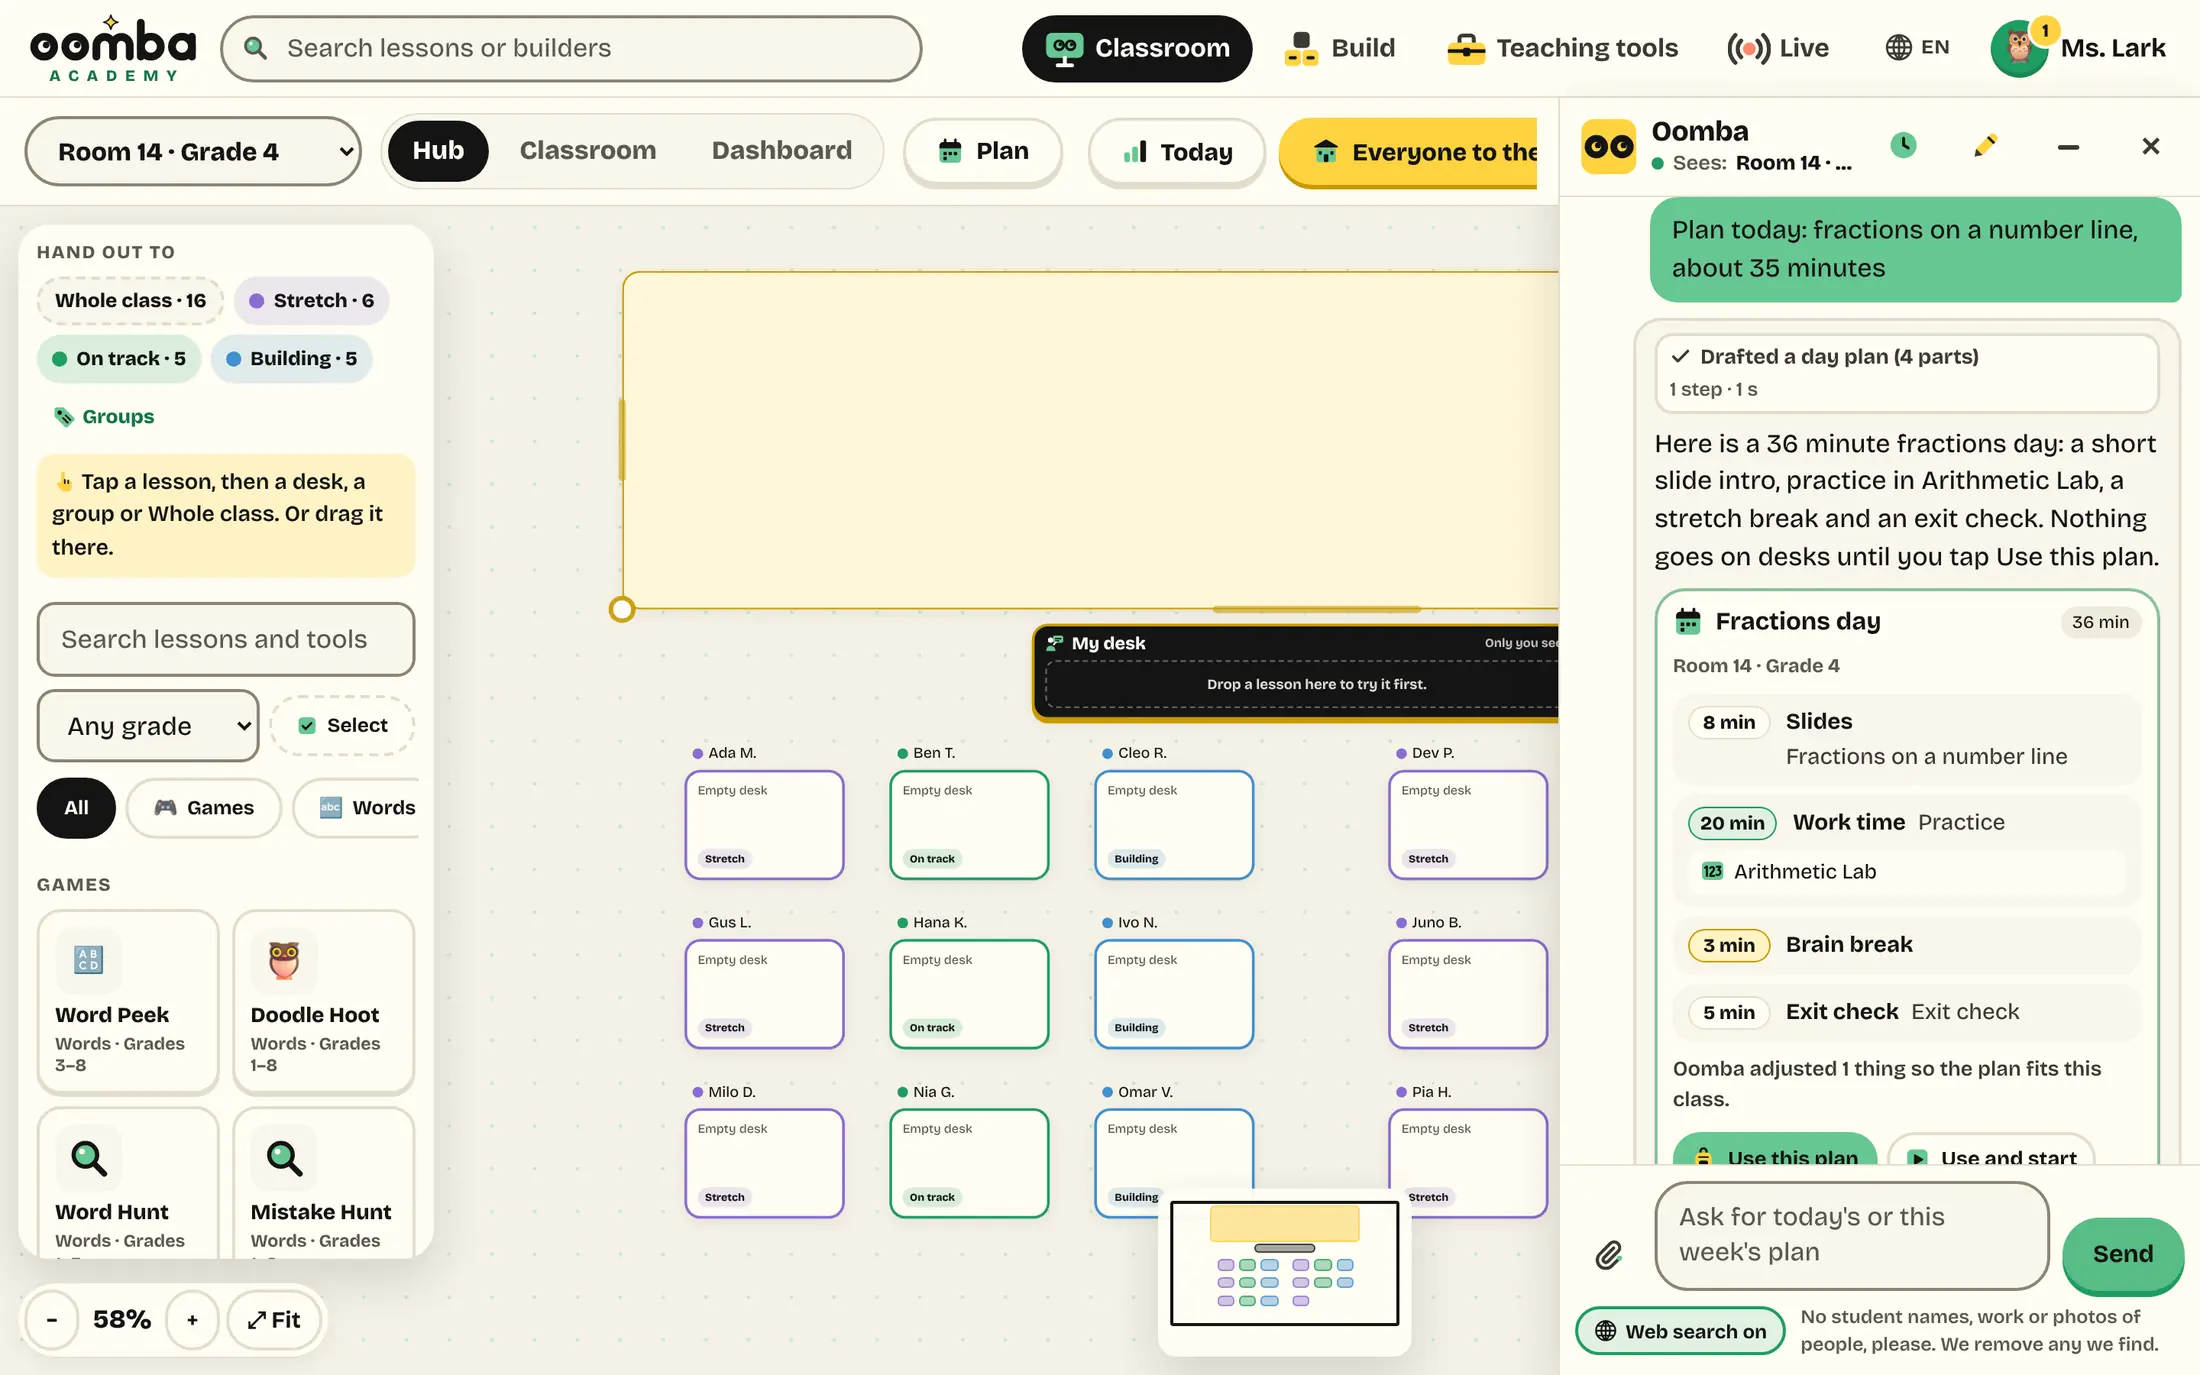
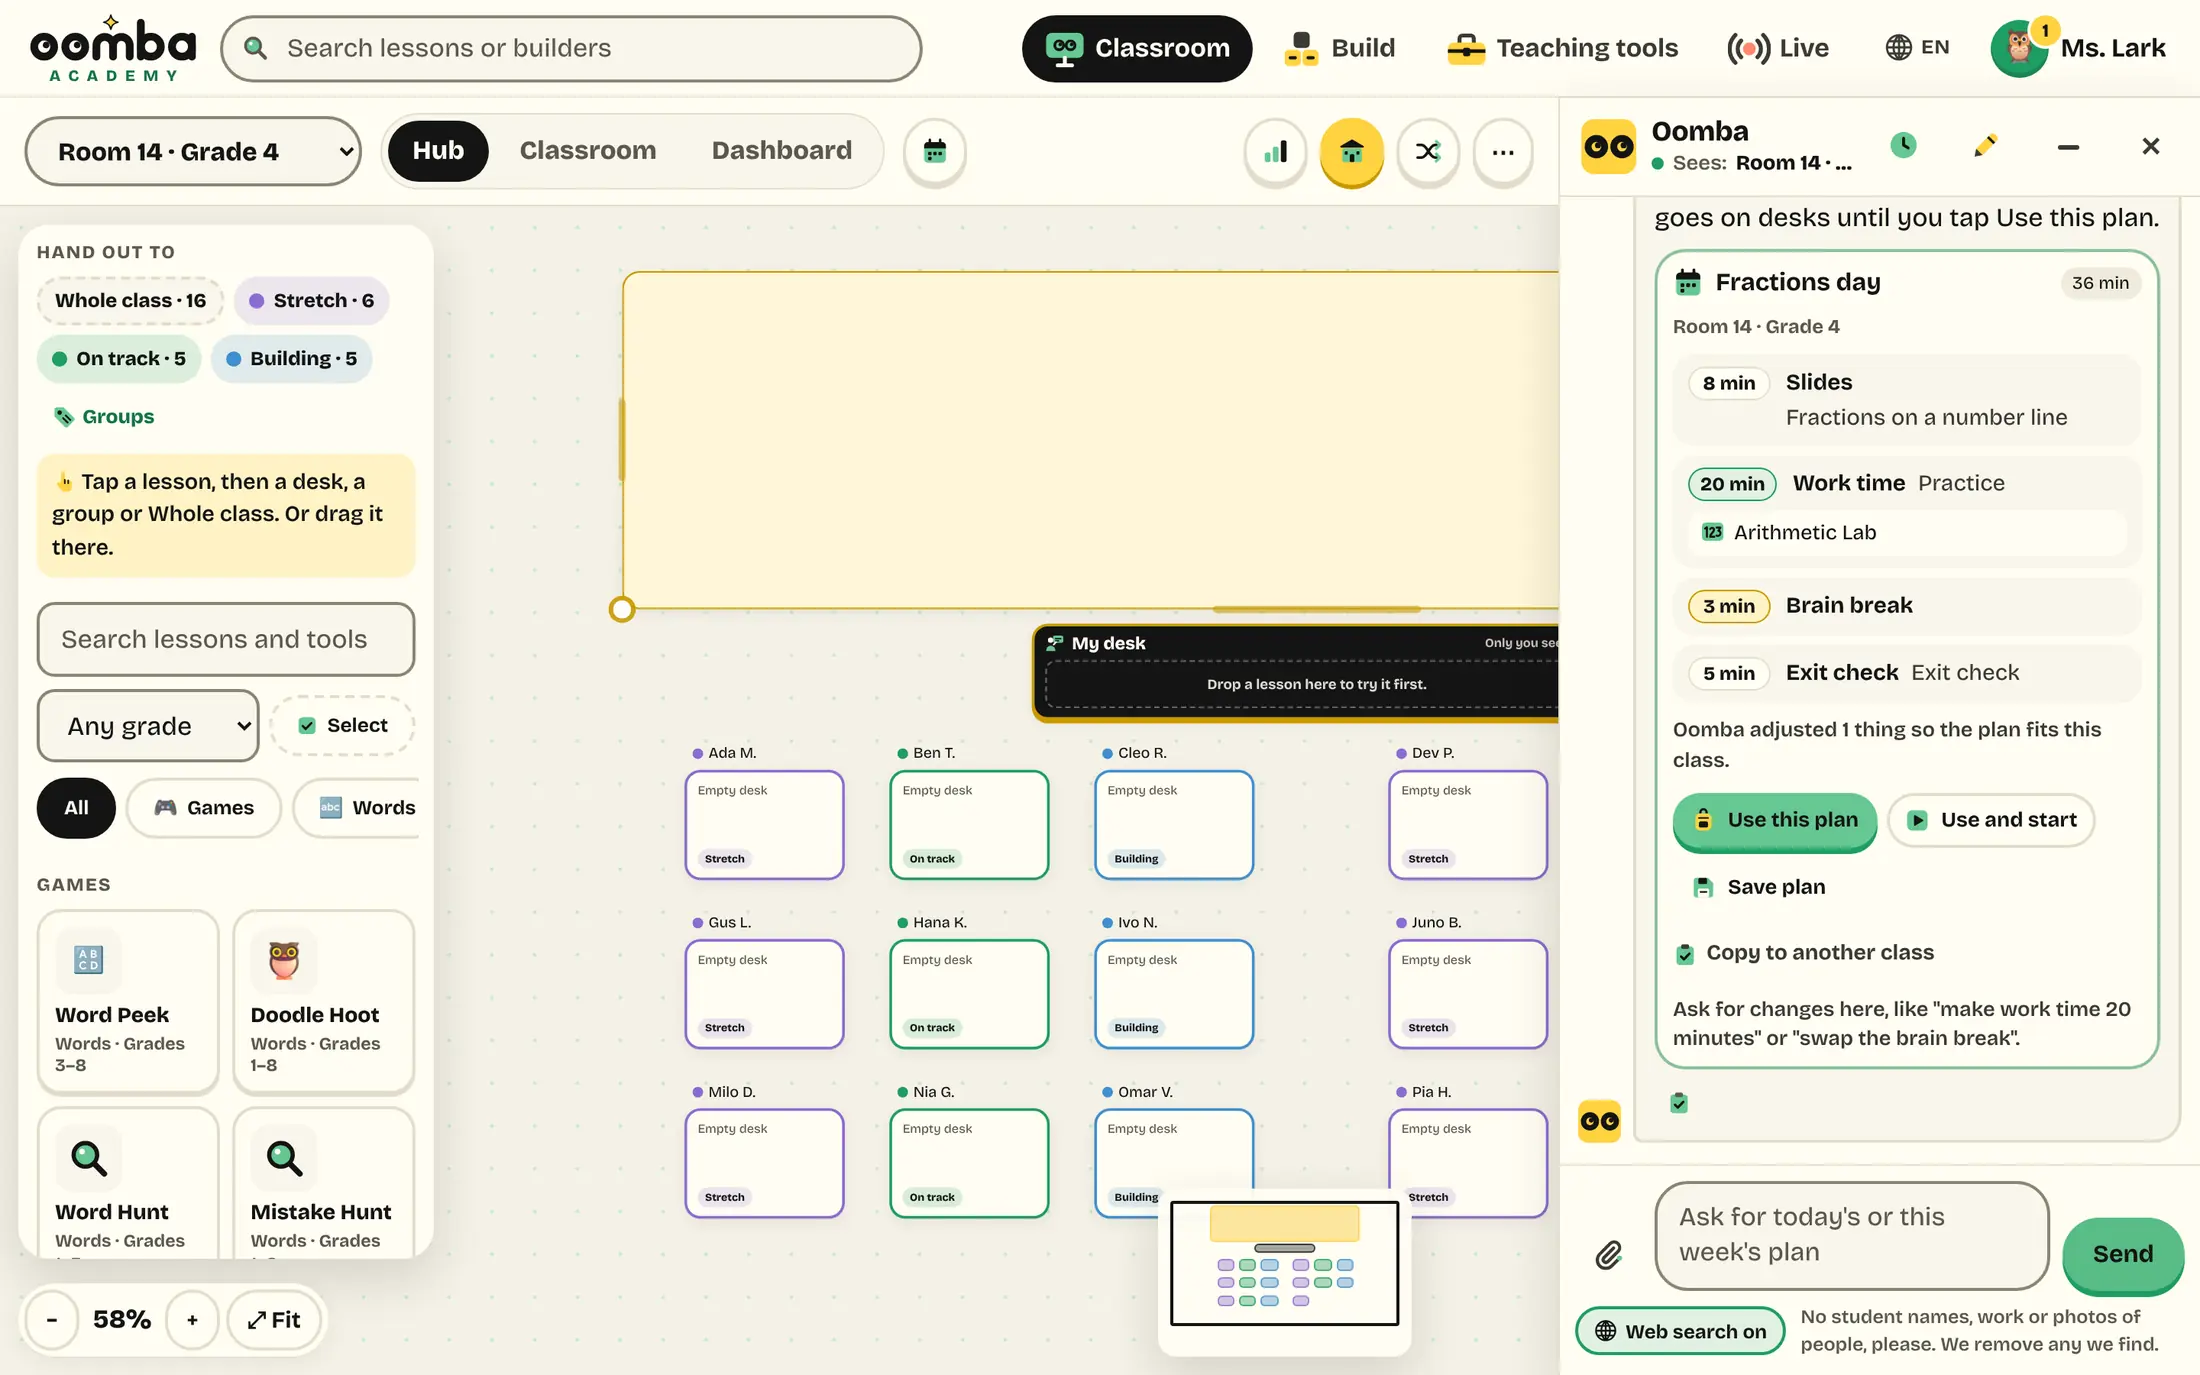
Homepage tour step 5: Use this plan shown whole; every ring clear of the window's edge
The step 5 screenshot (scripts/landing-shots.mjs) is captured with the Oomba chat scrolled to the plan card's end, so
Use this plan and Use and start show whole, with room under them and nothing over them (chat-plan is captured first, as
before, and is unchanged). Step 5's camera and ring follow the new picture; step 4's camera sits at the picture's right
edge so its ring has room. Every step's ring is now at least 17px from the window's edge at 390x844 and 1440, and the
browser test asserts at least 8px on all six steps at both sizes.

Claude-Session: https://claude.ai/code/session_013fJHoNyx7YpmiySDgm2YvR

Changed region(s): [[0.7109, 0.1222, 1.0, 0.8553], [0.4945, 0.0611, 0.7109, 0.1527], [0.4018, 0.0916, 0.4636, 0.1527]]

diff --git a/tests/unit/landing-tour-browser.test.js b/tests/unit/landing-tour-browser.test.js
@@ -48,6 +48,8 @@ const view = page => page.evaluate(() => {
   return { stage: r(st.querySelector('.lp-tstage')), ring: r(st.querySelector('.lp-ring')), tip: r(st.querySelector('.lp-tip')), scale: m.a, tx: m.e, ty: m.f };
 });
 const inside = (a, b) => a.x >= b.x - 1 && a.y >= b.y - 1 && a.x + a.w <= b.x + b.w + 1 && a.y + a.h <= b.y + b.h + 1;
+/** The ring's smallest distance to the window's edge (left, top, right, bottom). */
+const margin = (a, b) => Math.min(a.x - b.x, a.y - b.y, b.x + b.w - (a.x + a.w), b.y + b.h - (a.y + a.h));
 
 test('the tour: Next and Back, the stepper, the keys, focus, progress and the live region (laptop)', { skip }, async () => {
   const { ctx, page, errors } = await open({ viewport: { width: 1440, height: 900 }, reducedMotion: 'reduce' });
@@ -138,6 +140,22 @@ for (const colorScheme of ['dark', 'light']) {
     }, dir);
     await swipe('left'); assert.deepEqual((await state(page)).shown, [3]);
     await swipe('right'); assert.deepEqual((await state(page)).shown, [2]);
+    assert.deepEqual(errors, []);
+    await ctx.close();
+  });
+}
+
+for (const viewport of [{ width: 390, height: 844 }, { width: 1440, height: 900 }]) {
+  test(`every step's ring is whole in its window, at least 8px from each edge (${viewport.width}x${viewport.height})`, { skip }, async () => {
+    const { ctx, page, errors } = await open({ viewport, reducedMotion: 'reduce', ...(viewport.width < 500 ? { isMobile: true, hasTouch: true } : {}) });
+    await page.locator('#tour').scrollIntoViewIfNeeded();
+    for (let i = 0; i < 6; i++) {
+      const v = await view(page);
+      const m = margin(v.ring, v.stage);
+      assert.ok(m >= 8, `step ${i + 1}: the ring is ${m.toFixed(1)}px from the window's edge (${JSON.stringify({ ring: v.ring, stage: v.stage })})`);
+      assert.ok(v.ring.w > 20 && v.ring.h > 20, `step ${i + 1}: the ring is big enough to see`);
+      await page.locator('.lp-tstep.on [data-next]').click();
+    }
     assert.deepEqual(errors, []);
     await ctx.close();
   });

diff --git a/server/routes/landing.js b/server/routes/landing.js
@@ -340,8 +340,8 @@ export function renderLanding(req, res) {
     { shot: 'tour-seats', cam: [47, 36, 40], ring: [34.4, 16.9, 26.3, 5.2] },
     { shot: 'tour-handout', cam: [20, 70, 42], ring: [10.2, 77.4, 9.1, 14.2] },
     { shot: 'tour-watch', cam: [45, 66, 42], ring: [30.8, 53.6, 26.8, 23.2] },
-    { shot: 'tour-hands', cam: [82, 32, 36], ring: [76, 24.8, 23, 13.8] },
-    { shot: 'tour-oomba', cam: [84, 70, 34], ring: [75.6, 81.6, 9.8, 3.8] },
+    { shot: 'tour-hands', cam: [86, 32, 30], ring: [76, 24.8, 22.5, 13.8] },
+    { shot: 'tour-oomba', cam: [84, 52, 34], ring: [75.6, 57.2, 10, 5.4] },
     { shot: 'tour-finish', cam: [50, 50, 34], ring: [54.4, 54.6, 9.4, 5.6] },
   ].filter(s => SHOTS[s.shot]);
   const n = STEPS.length;
